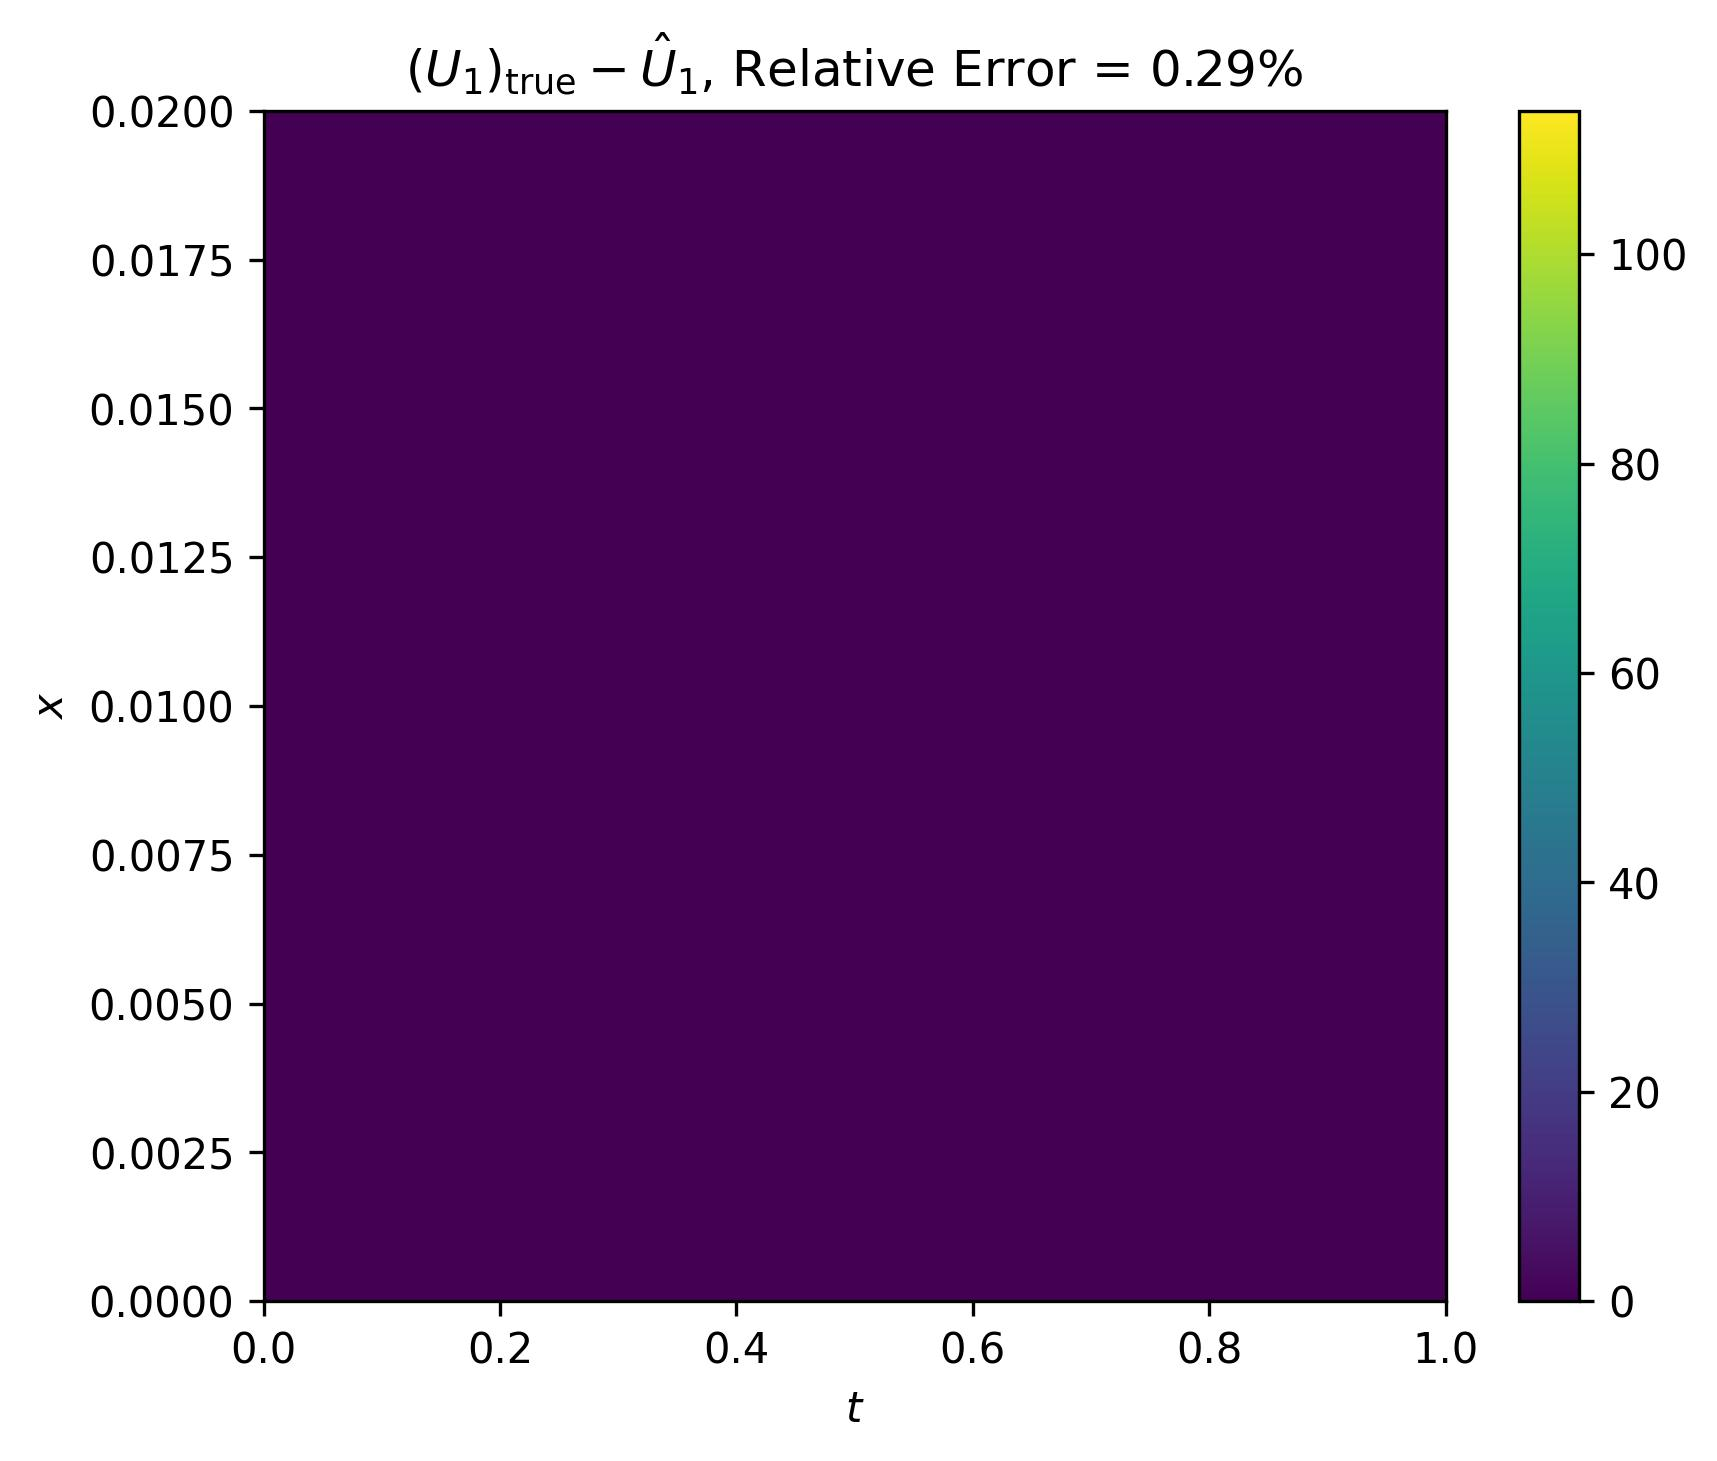
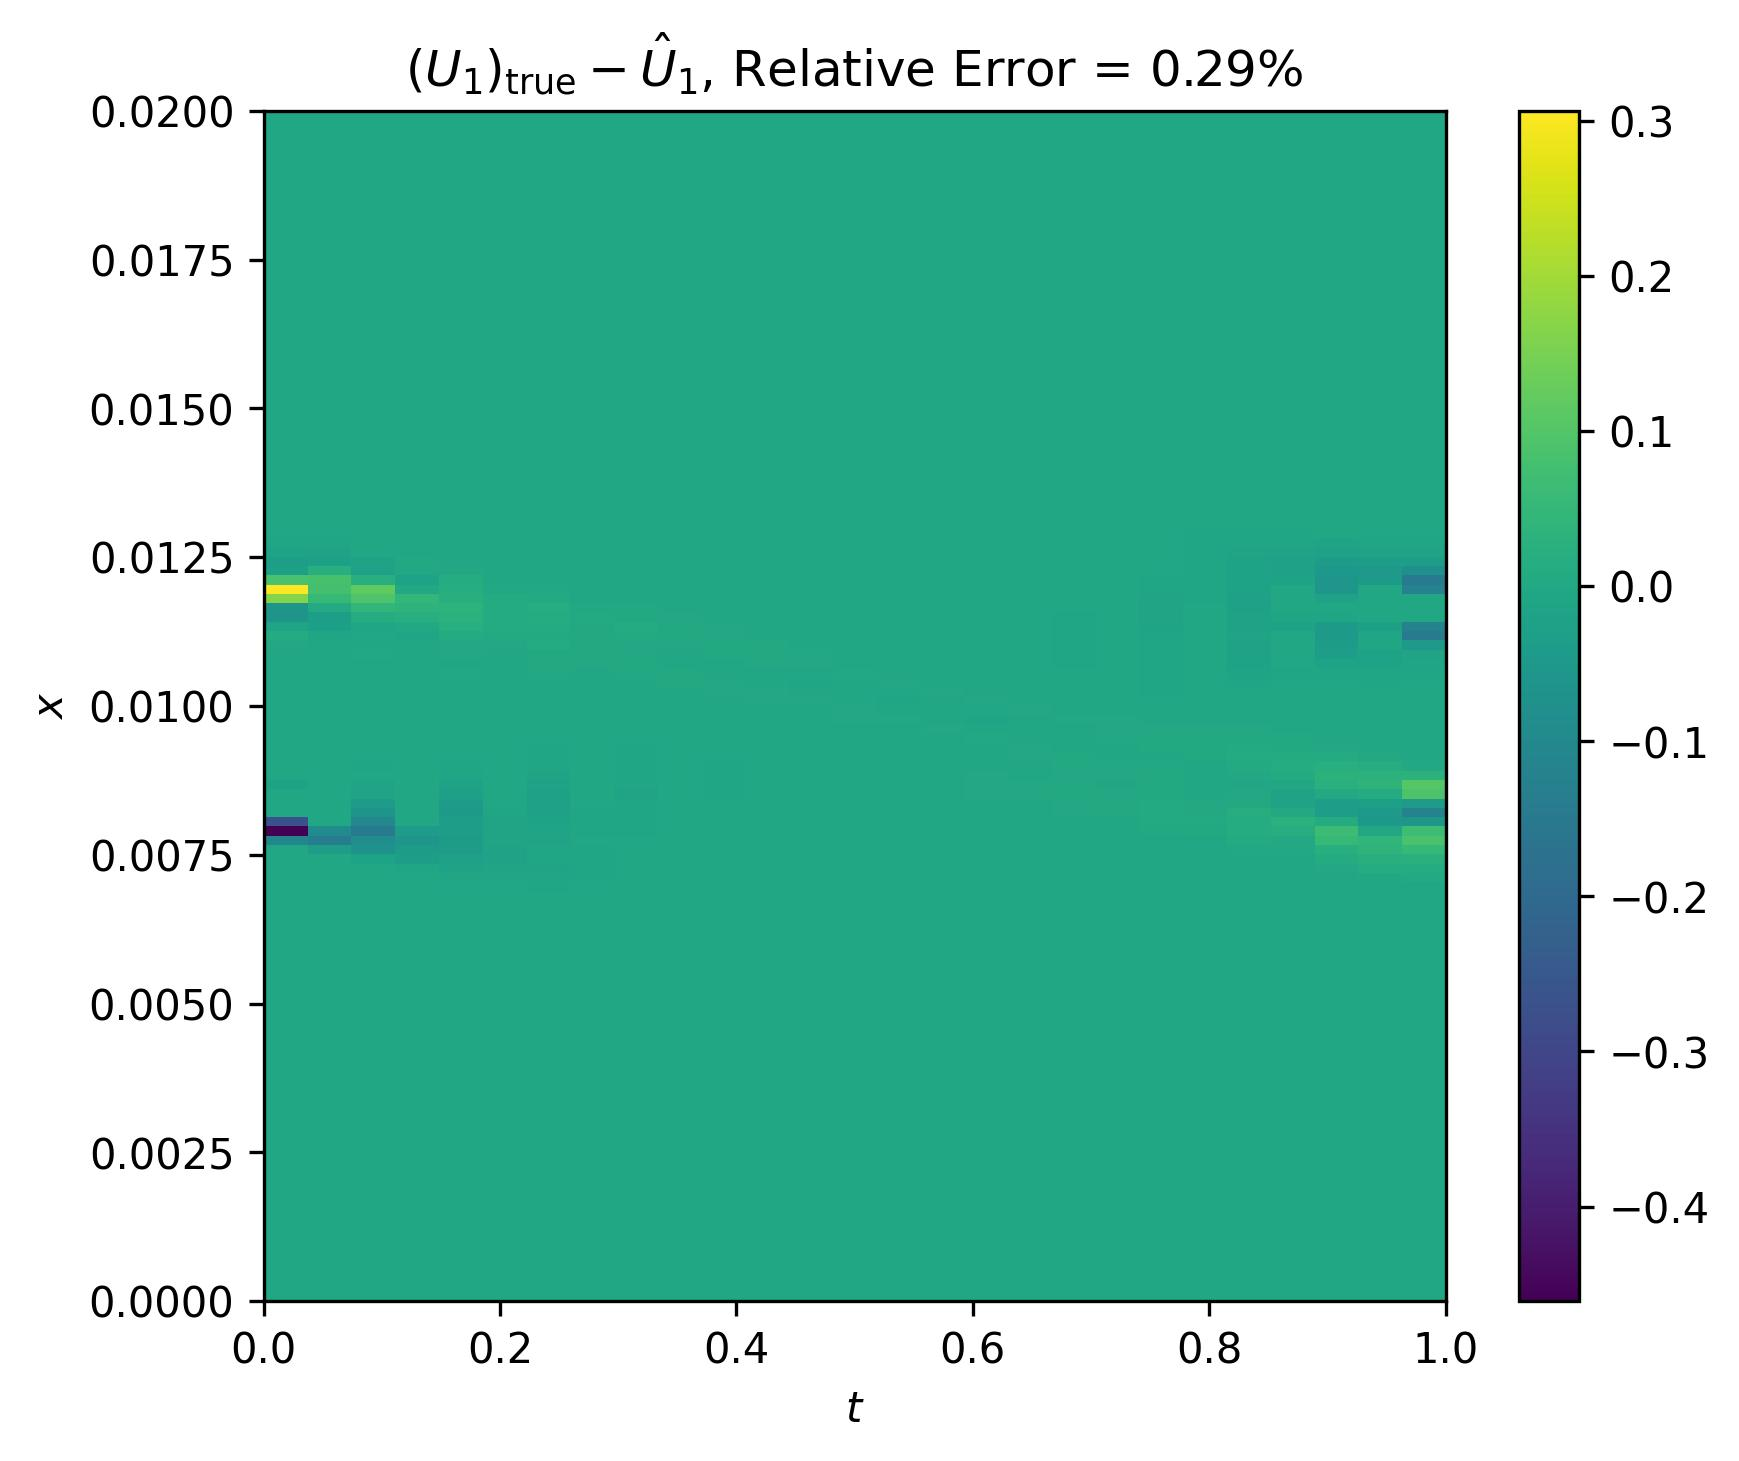
--allow-empty

diff --git a/_posts/2025-11-13-jax-for-physics-informed-source-separation.md b/_posts/2025-11-13-jax-for-physics-informed-source-separation.md
@@ -306,6 +306,21 @@ A diagonal matrix (rather than one with arbitrarily located nonzero elements) is
 
 
 ## JAX for Physics--Informed Source Separation
+
+{% include figure.liquid loading="eager" path="assets/img/posts/physics-informed-source-separation/U1_reconstruction.jpg" class="img-fluid rounded z-depth-1" zoomable=true %}
+{% include figure.liquid loading="eager" path="assets/img/posts/physics-informed-source-separation/U_sum_true.jpg" class="img-fluid rounded z-depth-1" zoomable=true %}
+{% include figure.liquid loading="eager" path="assets/img/posts/physics-informed-source-separation/U2_reconstruction.jpg" class="img-fluid rounded z-depth-1" zoomable=true %}
+(Left) Inferred source one from physics--informed source separation. (Middle) True source one + source two. (Right) Inferred source two from physics--informed source separation.
+
+
+{% include figure.liquid loading="eager" path="assets/img/posts/physics-informed-source-separation/U1_reconstruction.jpg" class="img-fluid rounded z-depth-1" zoomable=true %}
+{% include figure.liquid loading="eager" path="assets/img/posts/physics-informed-source-separation/U1_error.jpg" class="img-fluid rounded z-depth-1" zoomable=true %}
+(Left) Inferred source one from physics--informed source separation. (Right) Elementwise difference between true source one and inferred source one, with Frobenius norm percentage error of the images.
+
+{% include figure.liquid loading="eager" path="assets/img/posts/physics-informed-source-separation/U2_reconstruction.jpg" class="img-fluid rounded z-depth-1" zoomable=true %}
+{% include figure.liquid loading="eager" path="assets/img/posts/physics-informed-source-separation/U2_error.jpg" class="img-fluid rounded z-depth-1" zoomable=true %}
+(Left) Inferred source two from physics--informed source separation. (Right) Elementwise difference between true source two and inferred source two, with Frobenius norm percentage error of the images.
+
 JAX is an incredible Python library that facilitates the use of automatic differentiation to easily compute Jacobians for numerical optimization (and anywhere else they may be used, such as in the numerical solution of nonlinear systems of ordinary differential equations using Newton's method). One can also use it for just--in--time (JIT) compilation but we do not do so here. This library forms the backbone of another called JAXopt, where JAXopt has an intuitive interface for calling a routine that uses the Levenberg--Marquardt algorithm to solve a least--squares problem, such as the one we posed using physics--informed regularization. The following illustrates how to solve the optimization problem we've discussed so far through JAXopt.
 
 First, imports:
@@ -315,6 +330,7 @@ import numpy as np
 import matplotlib.pyplot as plt
 import jax
 import jax.numpy as jnp
+!pip install jaxopt
 import jaxopt
 ```
 
@@ -375,7 +391,7 @@ U2 = np.zeros((n, N_steps + 1))
 mu1 = 0.4
 mu2 = 1.0 - mu1
 u1_curr = get_u0(x, mu1)
-u2_curr = get_u0(x, mu2)
+u2_curr = 2*get_u0(x, mu2)
 U1[:, 0] = u1_curr
 U2[:, 0] = u2_curr
 
@@ -401,61 +417,74 @@ U = U1 + U2
 Next, visualize the individual PDE solutions and their superposition (which will serve as our observed data that we wish to decompose via physics--informed source separation):
 
 ```python
-# plot Minkowski diagrams
-plt.figure()
-plt.imshow(U1, extent=(x0, xf, 0, tf), aspect='auto')
-plt.xlabel('t')
-plt.ylabel('x')
-plt.title('U1')
-plt.colorbar()
-plt.show()
+vmin = U.min()
+vmax = U.max()
 
-plt.figure()
-plt.imshow(U2, extent=(x0, xf, 0, tf), aspect='auto')
-plt.xlabel('t')
-plt.ylabel('x')
-plt.title('U2')
-plt.colorbar()
-plt.show()
+fig1, ax1 = plt.subplots(figsize=(6, 5))
+im0 = ax1.imshow(U1, extent=(x0, xf, 0, tf), aspect='auto',
+                 vmin=vmin, vmax=vmax)
+ax1.set_xlabel(r'$t$')
+ax1.set_ylabel(r'$x$')
+ax1.set_title(r'$(U_1)_{\text{true}}$')
+plt.colorbar(im0, ax=ax1)
+fig1.tight_layout()
+fig1.savefig("U1_true.jpg", dpi=300, bbox_inches='tight')
+plt.close(fig1)
 
-plt.figure()
-plt.imshow(U, extent=(x0, xf, 0, tf), aspect='auto')
-plt.xlabel('t')
-plt.ylabel('x')
-plt.title('U1 + U2')
-plt.colorbar()
-plt.show()
+fig2, ax2 = plt.subplots(figsize=(6, 5))
+im1 = ax2.imshow(U2, extent=(x0, xf, 0, tf), aspect='auto',
+                 vmin=vmin, vmax=vmax)
+ax2.set_xlabel(r'$t$')
+ax2.set_ylabel(r'$x$')
+ax2.set_title(r'$(U_2)_{\text{true}}$')
+plt.colorbar(im1, ax=ax2)
+fig2.tight_layout()
+fig2.savefig("U2_true.jpg", dpi=300, bbox_inches='tight')
+plt.close(fig2)
+
+fig3, ax3 = plt.subplots(figsize=(6, 5))
+im2 = ax3.imshow(U, extent=(x0, xf, 0, tf), aspect='auto',
+                 vmin=vmin, vmax=vmax)
+ax3.set_xlabel(r'$t$')
+ax3.set_ylabel(r'$x$')
+ax3.set_title(r'$(U_1)_{\text{true}} + (U_2)_{\text{true}}$')
+plt.colorbar(im2, ax=ax3)
+fig3.tight_layout()
+fig3.savefig("U_sum_true.jpg", dpi=300, bbox_inches='tight')
+plt.close(fig3)
 ```
 
 After that, define helper functions for computing the residual that will be minimized:
 
 ```python
 def dUdt_center(U, dt):
-    return (U[2:, 1:-1] - U[:-2, 1:-1]) / (2 * dt)
+    return (U[:, 2:] - U[:, :-2]) / (2 * dt)
 
 def dUdx_center(U, dx):
-    return (U[1:-1, 2:] - U[1:-1, :-2]) / (2 * dx)
+    return (U[2:, :] - U[:-2, :]) / (2 * dx)
 
 def pde_res(U, c, dt, dx):
-    return dUdt_center(U, dt) + c * dUdx_center(U, dx)
+    dt_term = dUdt_center(U, dt)[1:-1, :]
+    dx_term = dUdx_center(U, dx)[:, 1:-1]
+    return dt_term + c * dx_term
 
 def get_residual(U_obs, dx, dt, c1, c2, reg_pde1, reg_pde2, mu, lam_1, lam_2, x):
     nx, nt = U_obs.shape
     U12 = x.reshape((2 * nx, nt))
     U1, U2 = U12[:nx, :], U12[nx:, :]
 
-    r_dec  = U1 + U2 - U_obs
-    r_pde1 = jnp.sqrt(2.0*reg_pde1) * pde_res(U1, c1, dt, dx)
-    r_pde2 = jnp.sqrt(2.0*reg_pde2) * pde_res(U2, c2, dt, dx)
+    r_dec = U1 + U2 - U_obs
+    r_pde1 = jnp.sqrt(2.0 * reg_pde1) * pde_res(U1, c1, dt, dx)
+    r_pde2 = jnp.sqrt(2.0 * reg_pde2) * pde_res(U2, c2, dt, dx)
 
-    neg1 = jnp.minimum(U1, 0.0)
-    neg2 = jnp.minimum(U2, 0.0)
+    viol1 = -jnp.minimum(U1, 0.0)
+    viol2 = -jnp.minimum(U2, 0.0)
 
-    r_pen1 = jnp.sqrt(mu) * neg1
-    r_pen2 = jnp.sqrt(mu) * neg2
+    r_pen1 = jnp.sqrt(mu) * viol1
+    r_pen2 = jnp.sqrt(mu) * viol2
 
-    r_mm1 = jnp.sum(lam_1 * (-neg1))
-    r_mm2 = jnp.sum(lam_2 * (-neg2))
+    r_mm1 = jnp.sum(lam_1 * viol1)
+    r_mm2 = jnp.sum(lam_2 * viol2)
 
     return jnp.concatenate([
         r_dec.ravel(),
@@ -474,63 +503,108 @@ Now pose the physics--informed source separation problem with JAX's *jax.numpy* 
 nx, nt = U.shape
 x = jnp.concatenate([U, U], axis=0).ravel()
 
-lam_pde1 = 1e-1
-lam_pde2 = 1e-1
+lam_pde1 = 1e-6
+lam_pde2 = 1e-6
 
-mu = 10.0
-mu_max = 1e5
-outer_iters = 10
-lm_maxiter = 300
+mu = 1e3
+mu_max = 1e6
+outer_iters = 2
+lm_maxiter = 50
 
 lam_1 = jnp.zeros_like(U)
 lam_2 = jnp.zeros_like(U)
 
-prev_viol = jnp.inf
-for k in range(outer_iters):
-    print(k)
+U1ks, U2ks = [], []
+U1_iters, U2_iters = [], []
 
-    x = jaxopt.LevenbergMarquardt(
-        residual_fun=lambda x_: get_residual(U, dx, dt, c1, c2, lam_pde1, lam_pde2, mu, lam_1, lam_2, x_),
+prev_viol = jnp.inf
+
+for k in range(outer_iters):
+    print("outer iter", k)
+
+    solver = jaxopt.LevenbergMarquardt(
+        residual_fun=lambda x_: get_residual(
+            U, dx, dt, c1, c2,
+            lam_pde1, lam_pde2,
+            mu, lam_1, lam_2,
+            x_
+        ),
         maxiter=lm_maxiter
-    ).run(x).params
+    )
+
+    x = solver.run(init_params=x).params
 
     U12 = x.reshape((2 * nx, nt))
-    U1, U2 = U12[:nx, :], U12[nx:, :]
+    U1_k, U2_k = U12[:nx, :], U12[nx:, :]
+    U1ks.append(U1_k)
+    U2ks.append(U2_k)
 
-    neg1 = jnp.minimum(U1, 0.0)
-    neg2 = jnp.minimum(U2, 0.0)
+    viol1 = -jnp.minimum(U1_k, 0.0)
+    viol2 = -jnp.minimum(U2_k, 0.0)
 
-    lam_1 = jnp.maximum(0.0, lam_1 - mu * neg1)
-    lam_2 = jnp.maximum(0.0, lam_2 - mu * neg2)
+    lam_1 = jnp.maximum(0.0, lam_1 + mu * viol1)
+    lam_2 = jnp.maximum(0.0, lam_2 + mu * viol2)
 
-    viol = jnp.sqrt(jnp.linalg.norm(neg1, ord='fro')**2 + jnp.linalg.norm(neg2, ord='fro')**2)
+    viol = jnp.sqrt(jnp.linalg.norm(viol1, 'fro')**2 +
+                    jnp.linalg.norm(viol2, 'fro')**2)
     if float(viol) < 0.8 * float(prev_viol):
         mu = min(mu_max, 2.0 * mu)
     prev_viol = viol
 
-U_hat  = np.array(x.reshape((2 * nx, nt)))
+U_hat = np.array(x.reshape((2 * nx, nt)))
 U1_hat, U2_hat = U_hat[:nx, :], U_hat[nx:, :]
 ```
 
 Last but not least, visualize the sources inferred through our solved physics--informed source separation problem:
 
 ```python
-# plot Minkowski diagrams of inferred
-plt.figure()
-plt.imshow(U1_hat, extent=(x0, xf, 0, tf), aspect='auto')
-plt.xlabel('t')
-plt.ylabel('x')
-plt.title('U1_hat')
-plt.colorbar()
-plt.show()
+rel_err = np.linalg.norm(U1 - U1ks[0], ord='fro') / np.linalg.norm(U1, ord='fro')
+perc_err = 100 * rel_err
 
-plt.figure()
-plt.imshow(U2_hat, extent=(x0, xf, 0, tf), aspect='auto')
-plt.xlabel('t')
-plt.ylabel('x')
-plt.title('U2_hat')
-plt.colorbar()
-plt.show()
+fig_recon, ax_recon = plt.subplots(figsize=(6, 5))
+im0 = ax_recon.imshow(U1ks[0], extent=(x0, xf, 0, tf), aspect='auto', vmin=vmin, vmax=vmax)
+ax_recon.set_xlabel(r'$t$')
+ax_recon.set_ylabel(r'$x$')
+ax_recon.set_title(r'$\hat{U}_1$')
+plt.colorbar(im0, ax=ax_recon)
+fig_recon.tight_layout()
+fig_recon.savefig("U1_reconstruction.jpg", dpi=300, bbox_inches='tight')
+plt.close(fig_recon)
+
+fig_err, ax_err = plt.subplots(figsize=(6, 5))
+err = U1 - U1ks[0]
+im1 = ax_err.imshow(err, extent=(x0, xf, 0, tf), aspect='auto')
+ax_err.set_xlabel(r'$t$')
+ax_err.set_ylabel(r'$x$')
+ax_err.set_title(r'$(U_1)_{\text{true}} - \hat{U}_1$, ' + rf'Relative Error = {perc_err:.2f}%')
+plt.colorbar(im1, ax=ax_err)
+fig_err.tight_layout()
+fig_err.savefig("U1_error.jpg", dpi=300, bbox_inches='tight')
+plt.close(fig_err)
+
+rel_err = np.linalg.norm(U2 - U2ks[0], ord='fro') / np.linalg.norm(U2, ord='fro')
+perc_err = 100 * rel_err
+
+fig_recon, ax_recon = plt.subplots(figsize=(6, 5))
+im0 = ax_recon.imshow(U2ks[0], extent=(x0, xf, 0, tf), aspect='auto', vmin=vmin, vmax=vmax)
+ax_recon.set_xlabel(r'$t$')
+ax_recon.set_ylabel(r'$x$')
+ax_recon.set_title(r'$\hat{U}_2$')
+plt.colorbar(im0, ax=ax_recon)
+fig_recon.tight_layout()
+fig_recon.savefig("U2_reconstruction.jpg", dpi=300, bbox_inches='tight')
+plt.close(fig_recon)
+
+fig_err, ax_err = plt.subplots(figsize=(6, 5))
+err = U2 - U2ks[0]
+im1 = ax_err.imshow(err, extent=(x0, xf, 0, tf), aspect='auto')
+ax_err.set_xlabel(r'$t$')
+ax_err.set_ylabel(r'$x$')
+ax_err.set_title(r'$(U_2)_{\text{true}} - \hat{U}_2$, ' + rf'Relative Error = {perc_err:.2f}%')
+plt.colorbar(im1, ax=ax_err)
+fig_err.tight_layout()
+fig_err.savefig("U2_error.jpg", dpi=300, bbox_inches='tight')
+plt.close(fig_err)
 ```
 
 ## Conclusion
